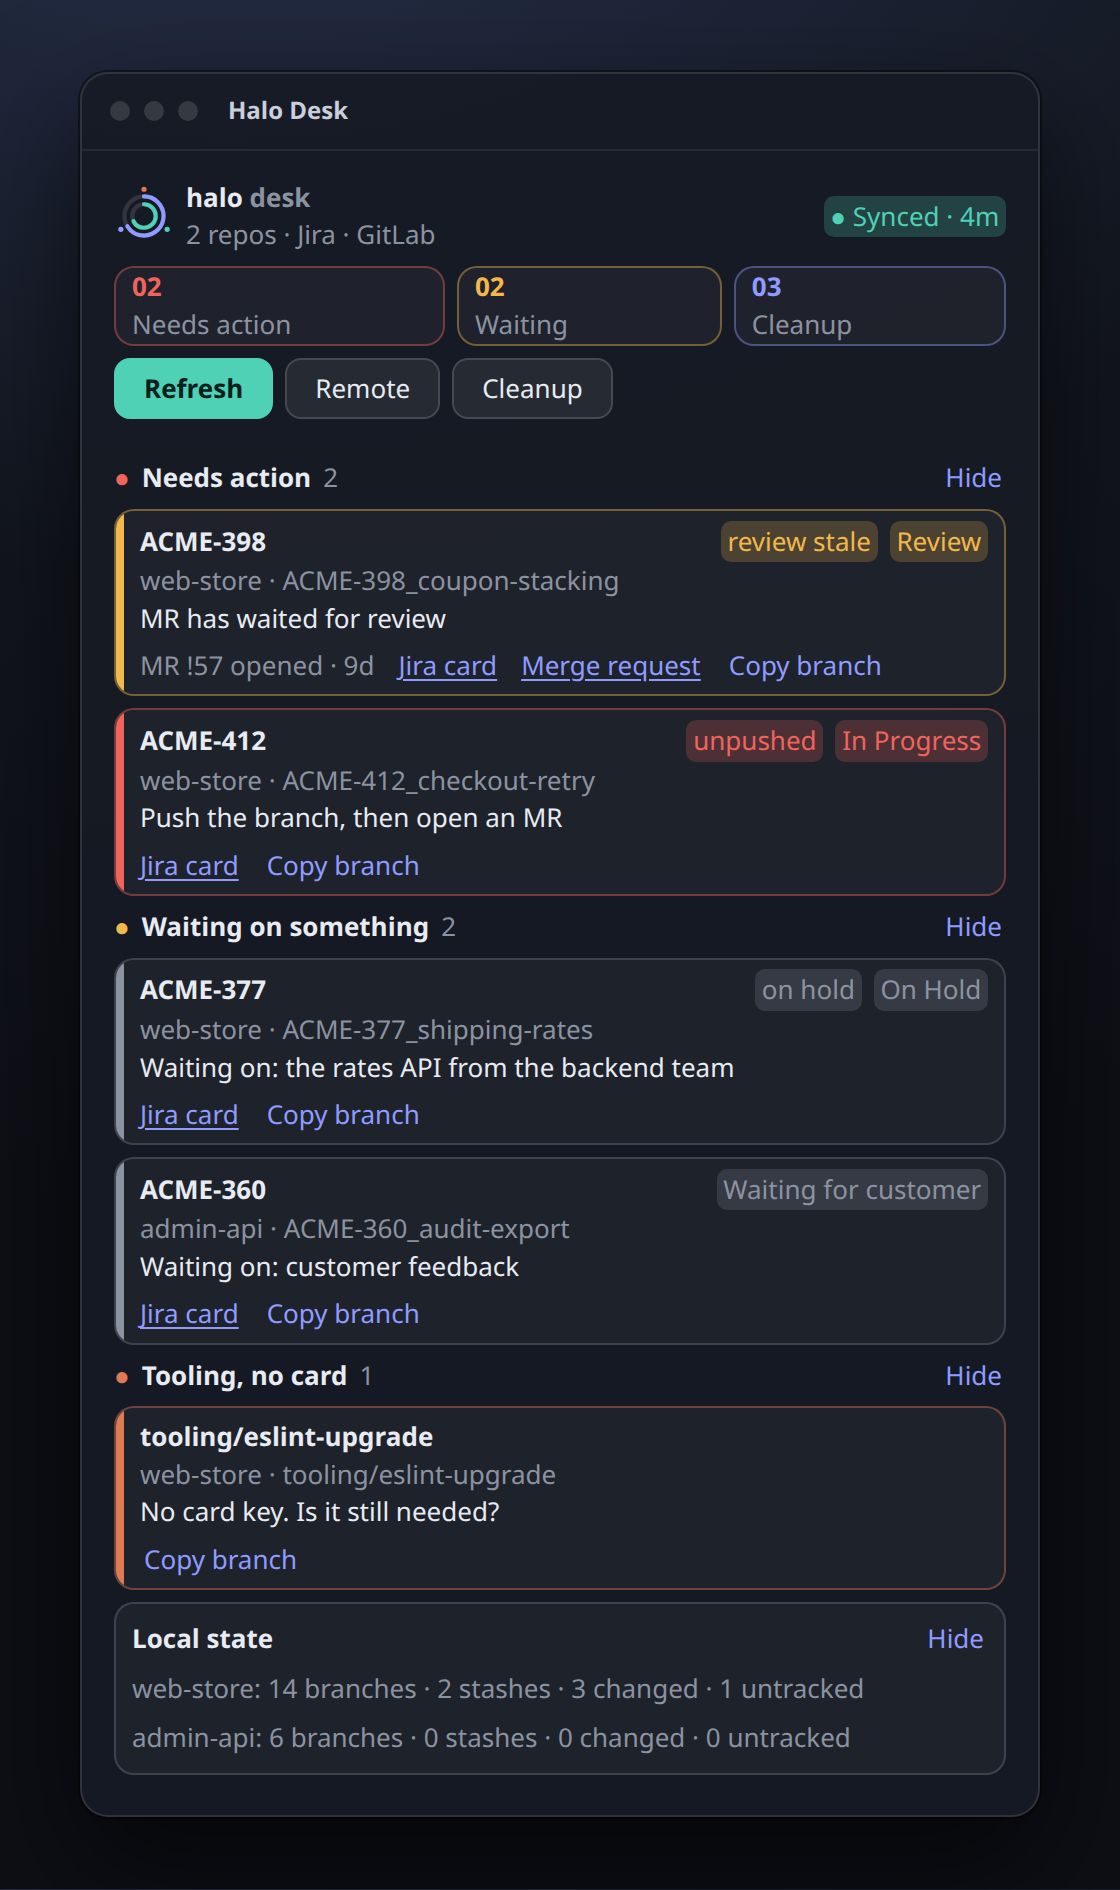
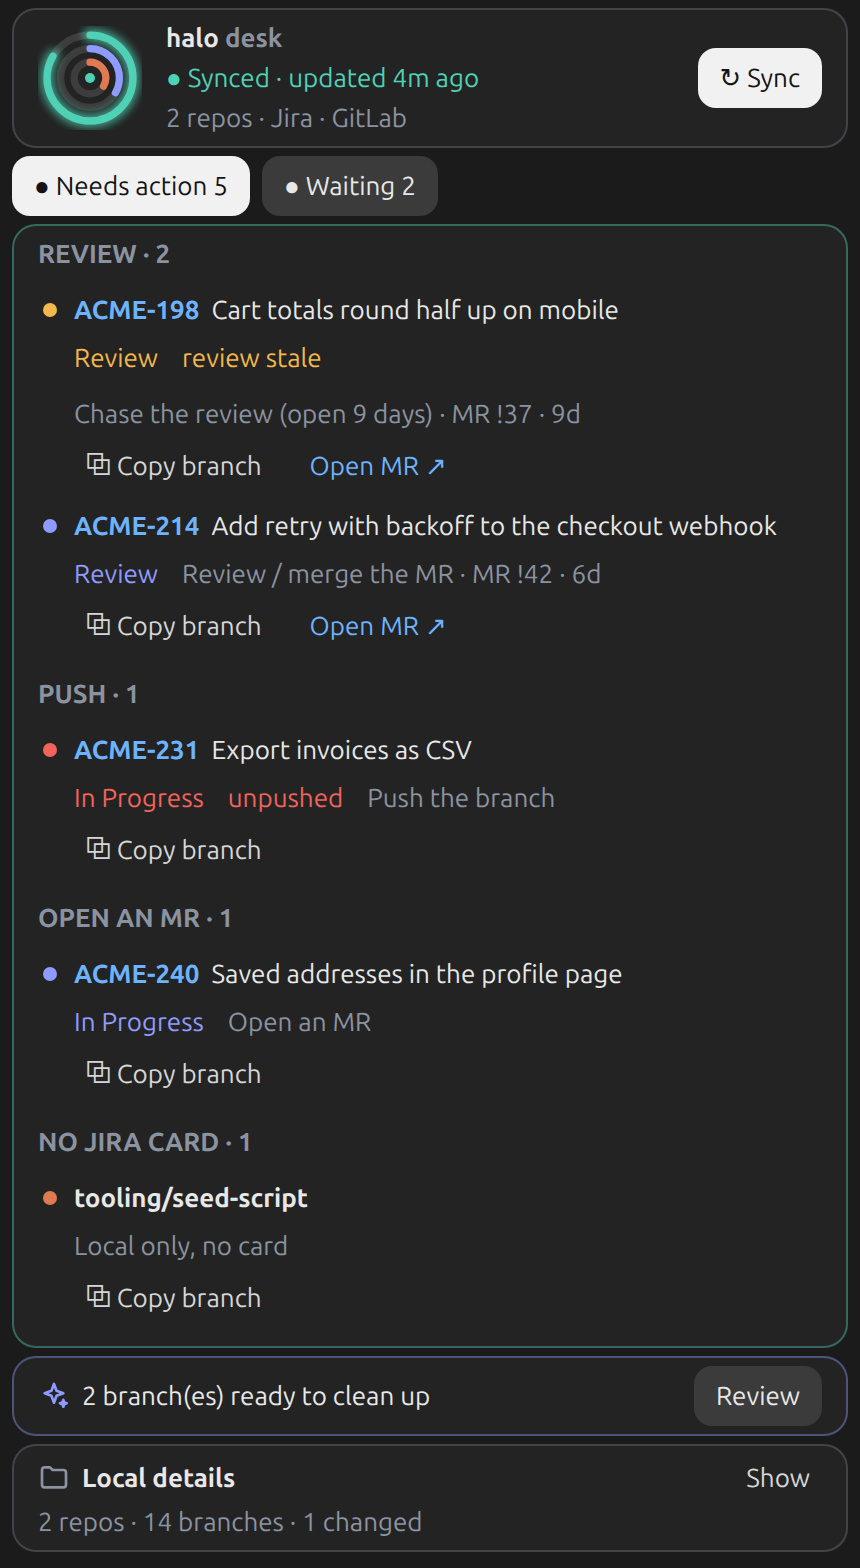
docs(halo-desk): new screenshots, README and changelog for the redesign; version 0.2.0

Changed region(s): [[0.0, 0.0, 0.9977, 1.0]]

diff --git a/plugins/halo-desk/README.md b/plugins/halo-desk/README.md
@@ -4,16 +4,16 @@ Part of [Halo](../../README.md), a modular workspace for Claude Code. A Claude C
 
 <p align="center">
   <img src="docs/halo-desk-main.png" alt="Halo Desk pane" width="420">
-  <img src="docs/halo-desk-approve.png" alt="Halo Desk asking for approval before refreshing remote data" width="420">
+  <img src="docs/halo-desk-approve.png" alt="Halo Desk asking for approval before syncing" width="420">
 </p>
-<p align="center"><sub>Rendered from the pane's real element tree with made-up sample data (a fictional "ACME" project). Left: the pane. Right: the approval card raised by pressing Remote.</sub></p>
+<p align="center"><sub>Rendered from the pane's real element tree with made-up sample data (a fictional "ACME" project). Left: the pane. Right: the approval card raised by pressing Sync.</sub></p>
 
 ## What you get
 
-- **Needs action now**: unpushed branches, MRs to review (stale ones flagged), pushed work with no MR, cards that look abandoned.
-- **Waiting on something**: on-hold cards, plan notes that say "waiting for…", cards owned by someone else.
-- **Tooling, no card**: branches without a card key.
-- **Local state**: branches, stashes, changed and untracked files per repo.
+- **The rings**: the Halo mark is a live summary. Outer teal ring: needs action. Middle violet: waiting. Inner coral: cleanup. The ring of the tab you are on glows and shivers, so you can see the pane is alive.
+- **Needs action**: grouped by what to do: Review (stale MRs flagged), Push, Open an MR, and branches with no Jira card. Each row has the Jira title, the card as a link, Copy branch and Open MR.
+- **Waiting**: on-hold cards, plan notes that say "waiting for…", cards owned by someone else.
+- **Local details**: branches, stashes, changed and untracked files per repo.
 - **Cleanup review**: branches proven merged and stashes already in the base, each with the evidence. Nothing is deleted until you approve it. Untracked files are listed, never deleted.
 
 It works with git alone. Jira and GitLab data add the rest.

diff --git a/README.md b/README.md
@@ -28,17 +28,17 @@ A quiet bar pinned above your prompt. One glance shows how much of your 5-hour a
 
 ## Halo Desk: manage your work
 
-A pane that answers "what is actually open?". It reads your local git repos, cross-checks them against Jira and GitLab, and sorts every branch into **needs action**, **waiting**, or **tooling**, with the next step spelled out. A cleanup review lists branches proven merged and stashes already in the base, each with its evidence.
+A pane that answers "what is actually open?". It reads your local git repos, cross-checks them against Jira and GitLab, and sorts every branch into **needs action** (grouped as Review, Push, Open an MR, and branches with no card) or **waiting**, with the next step spelled out. A cleanup review lists branches proven merged and stashes already in the base, each with its evidence.
 
 Nothing happens behind your back. Every action that fetches, writes or deletes shows an approval card first.
 
 <table>
   <tr>
-    <td width="50%"><img src="plugins/halo-desk/docs/halo-desk-main.png" alt="Halo Desk pane: counts, cards for each branch with Jira and merge request links, local state"></td>
-    <td width="50%"><img src="plugins/halo-desk/docs/halo-desk-cleanup.png" alt="Halo Desk cleanup review with an approval card asking before deleting three branches"></td>
+    <td width="50%"><img src="plugins/halo-desk/docs/halo-desk-main.png" alt="Halo Desk pane: the Halo rings as a live summary, two tabs, a queue grouped by what to do, with Jira and merge request links"></td>
+    <td width="50%"><img src="plugins/halo-desk/docs/halo-desk-cleanup.png" alt="Halo Desk cleanup review with an approval card asking before deleting two branches"></td>
   </tr>
   <tr>
-    <td align="center"><sub>The pane: what needs you, what is waiting</sub></td>
+    <td align="center"><sub>The pane: the rings are the summary, the queue is grouped by what to do</sub></td>
     <td align="center"><sub>Cleanup review, with evidence and an approval card</sub></td>
   </tr>
 </table>

diff --git a/CHANGELOG.md b/CHANGELOG.md
@@ -4,6 +4,12 @@ Each plugin is versioned and released on its own. Entries say which plugin chang
 
 ## Unreleased
 
+### halo-desk 0.2.0
+- New pane design: the Halo rings are a live summary (the selected tab's ring glows and shivers), two tabs (Needs action, Waiting), and a queue grouped by what to do, with the Jira title, a link to the card, Copy branch and Open MR on every row.
+- One **Sync** button (git fetch, then Jira and GitLab) behind a single approval card; *Git only* is offered inside it. A cleanup banner appears only when there is something to clean up; Local details is a disclosure at the bottom.
+- Fix: a card whose Jira status is closed and whose MR is merged is never shown as "push the branch", even when the local tip cannot be matched to the merged one.
+- Removed from the pane: the usage card (use Halo Usage) and the Show/Hide section cards.
+
 ### halo-desk 0.1.0
 - First version: a pane with local git, Jira and GitLab context, task classification, and confirmation-gated cleanup. Halo-branded.
 - New `access.jira` / `access.gitlab` settings (`browser` default, or `mcp`): the Remote button can have Claude read Jira and GitLab through MCP servers instead of a signed-in browser, asking for approval before falling back to the browser when an MCP is not connected.
